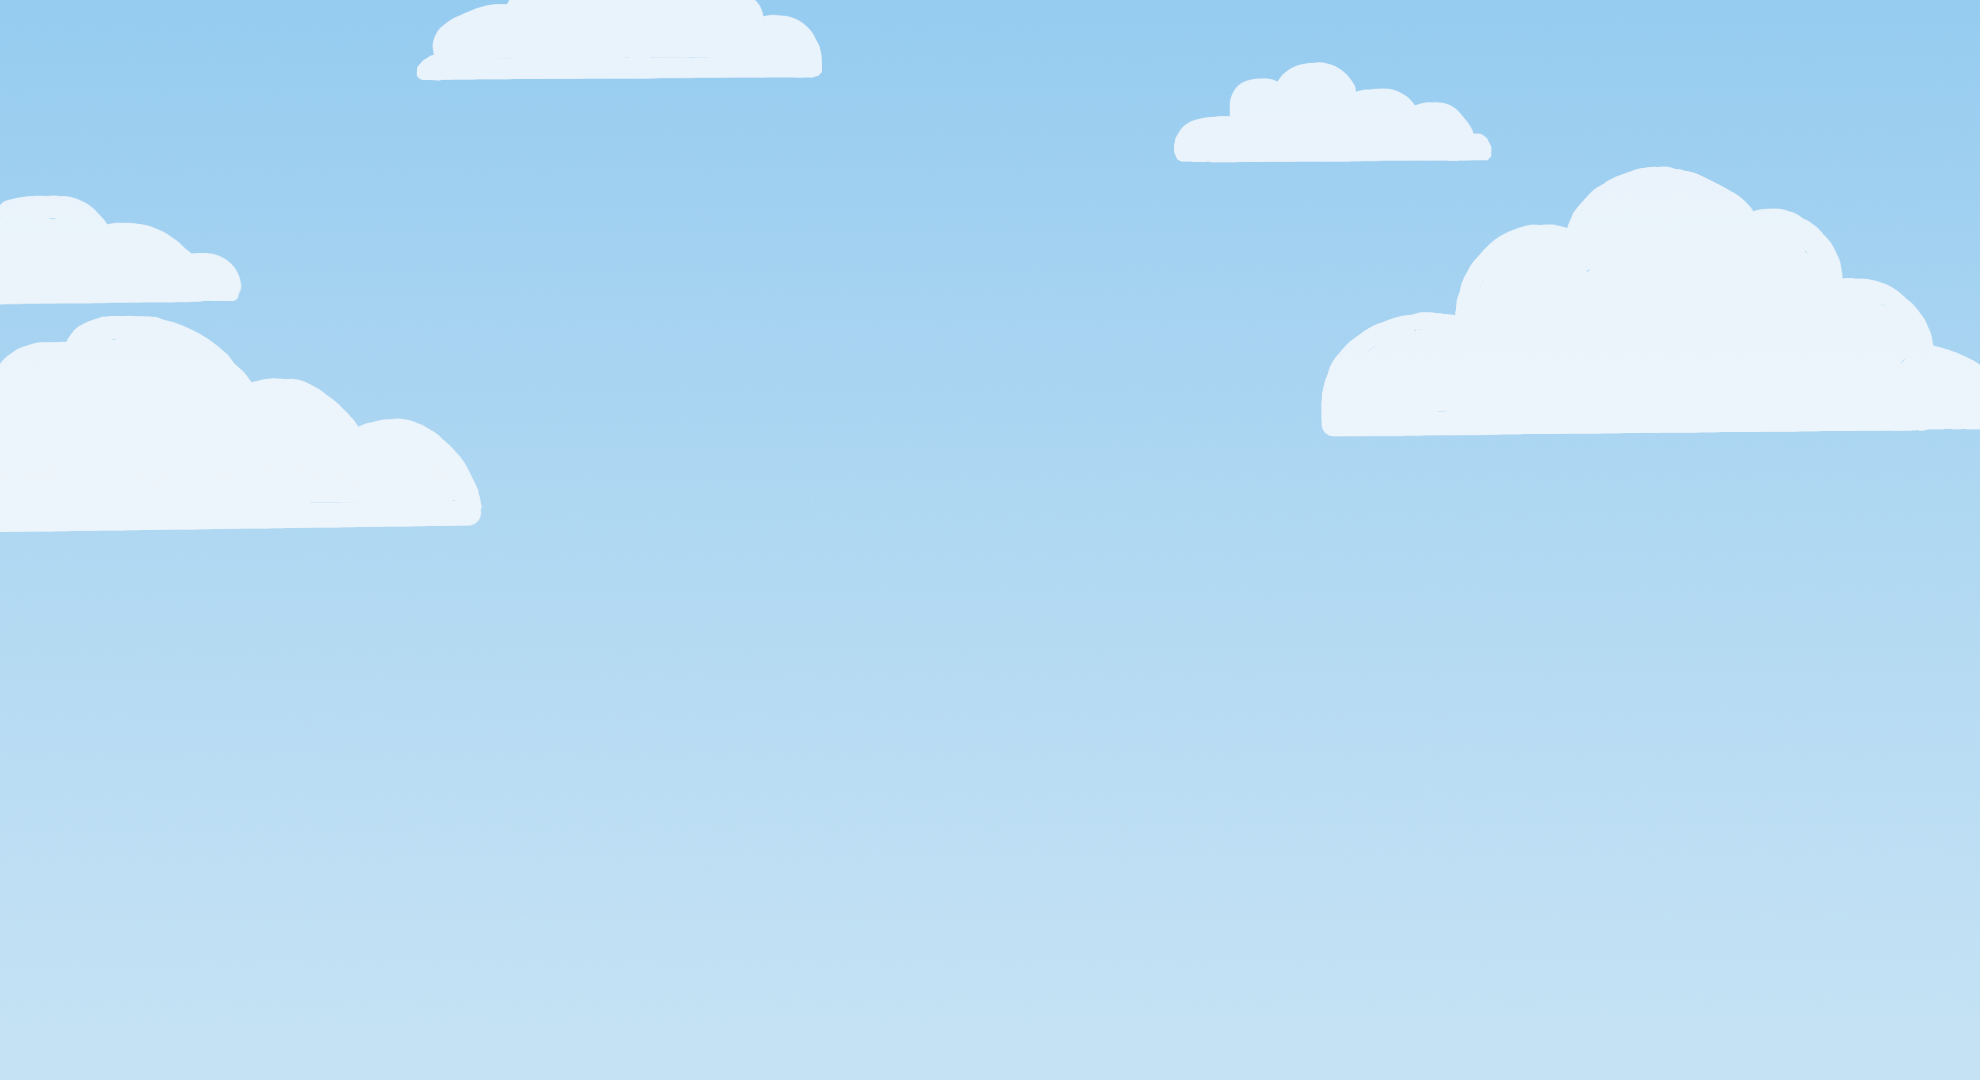
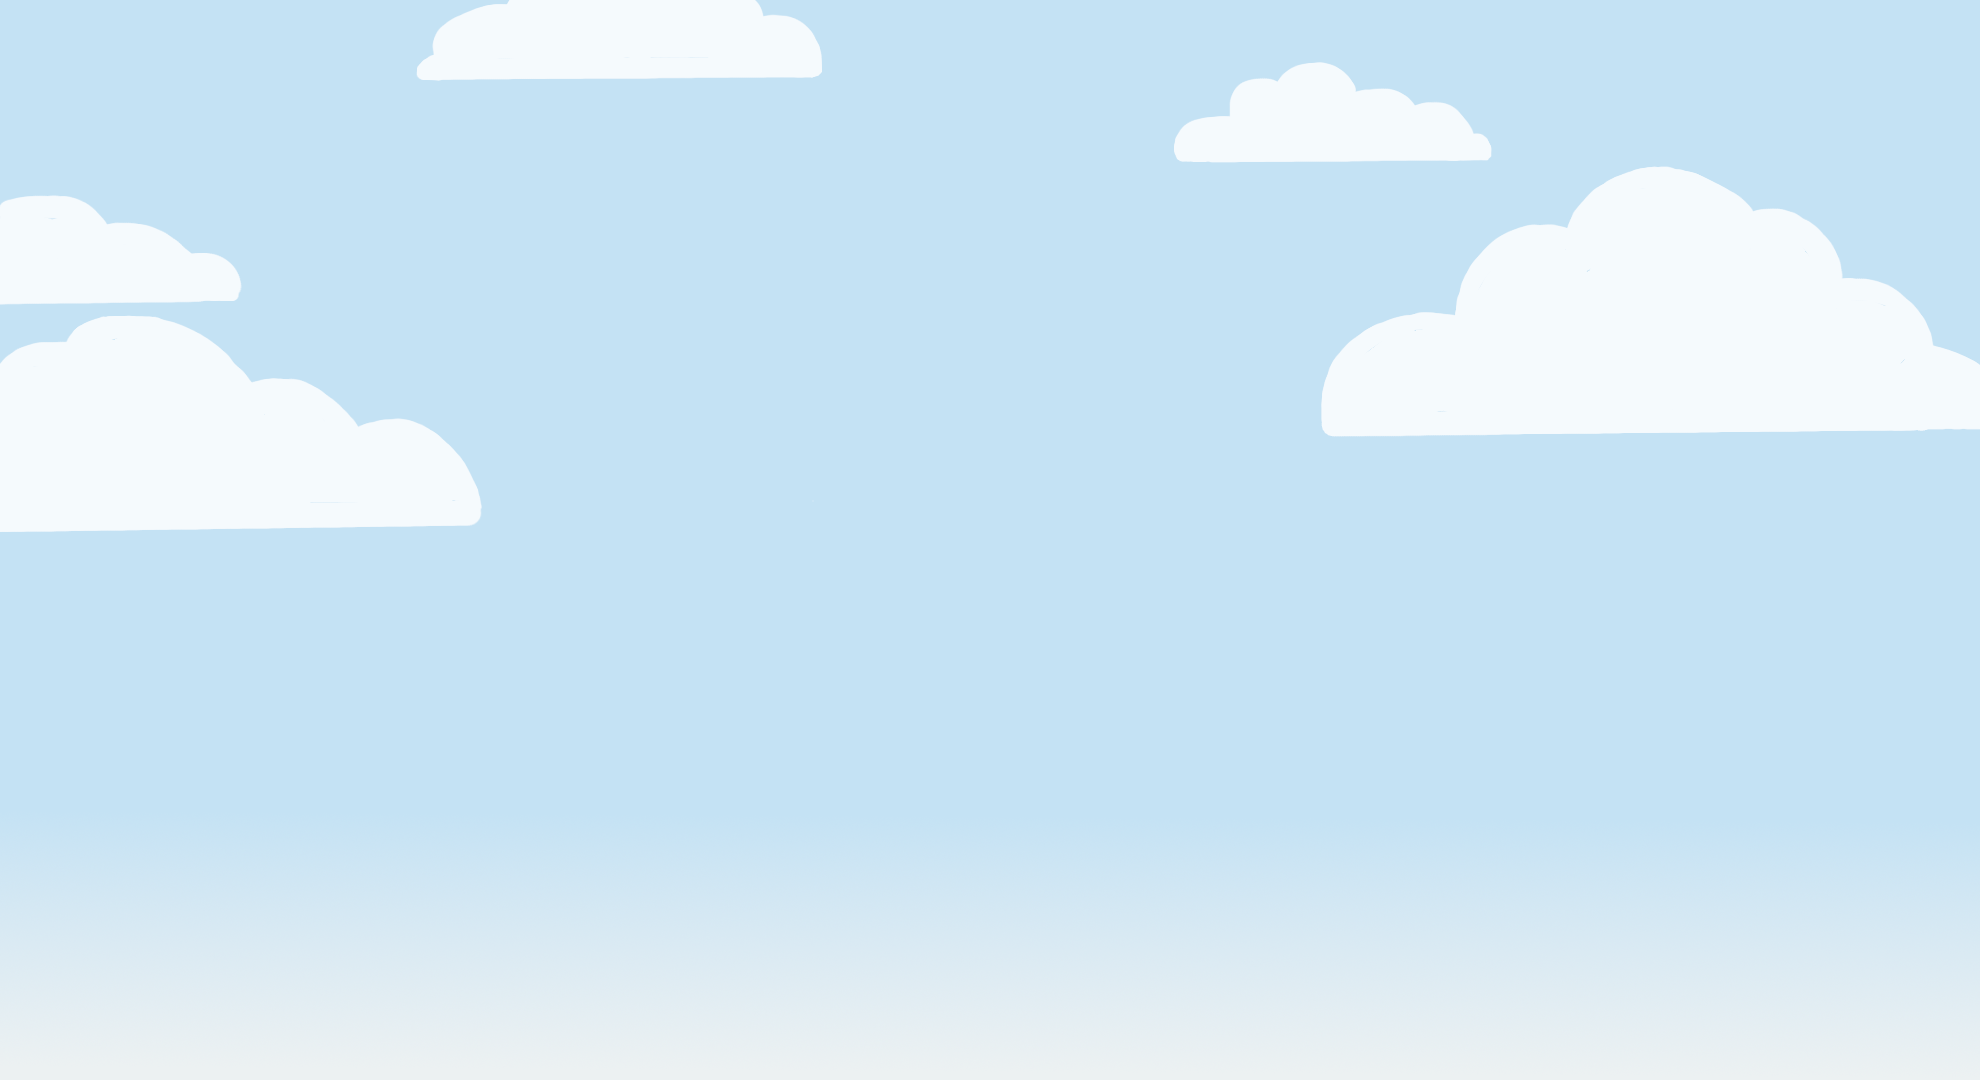
projects colour

diff --git a/style.scss b/style.scss
@@ -526,7 +526,7 @@ nav {
 }
 
 .projects > .project {
-  margin-bottom: 22px;
+  margin-bottom: 26px;
 }
 
 .projects > .project:last-child {
@@ -534,9 +534,9 @@ nav {
 }
 
 .project {
-  border-radius: 25px;
+  border-radius: 18px;
   background-color: $projects-background;
-  height: 240px;
+  height: 220px;
 
   @include mobile {
     height: 190px;

diff --git a/_sass/_variables.scss b/_sass/_variables.scss
@@ -5,10 +5,9 @@
 
 // Colors
 $blue: #3ca0e3;
-$main-background: #c4e2f4;
-$main-background-grad: #96ccf0;
-$footer-background: #73bcec;
-$projects-background: #ecf1f2;
+$main-background: #ecf1f2;
+$footer-background: #c4e2f4;
+$projects-background: #96ccf0;
 
 // Grays
 $black: #000;
